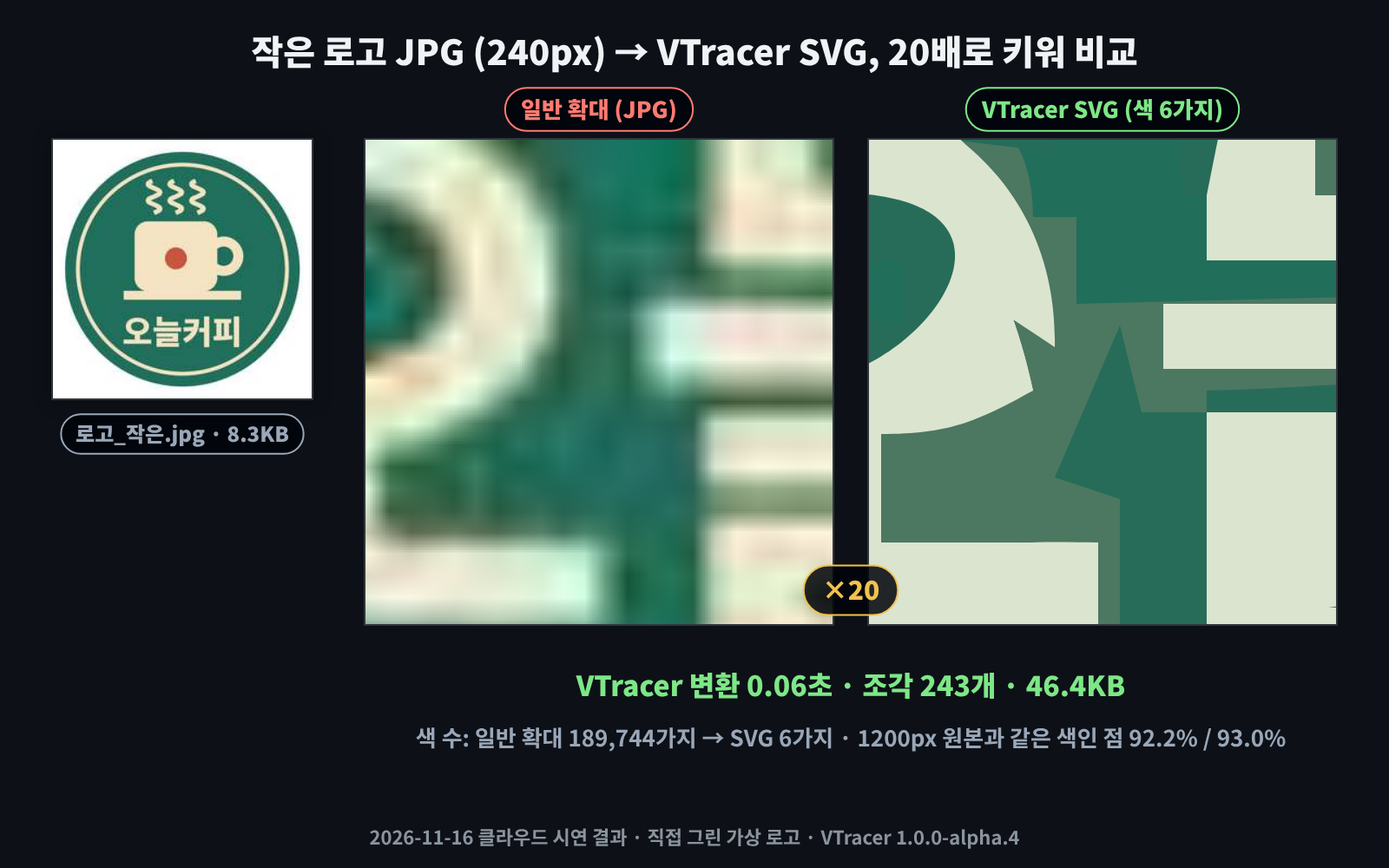
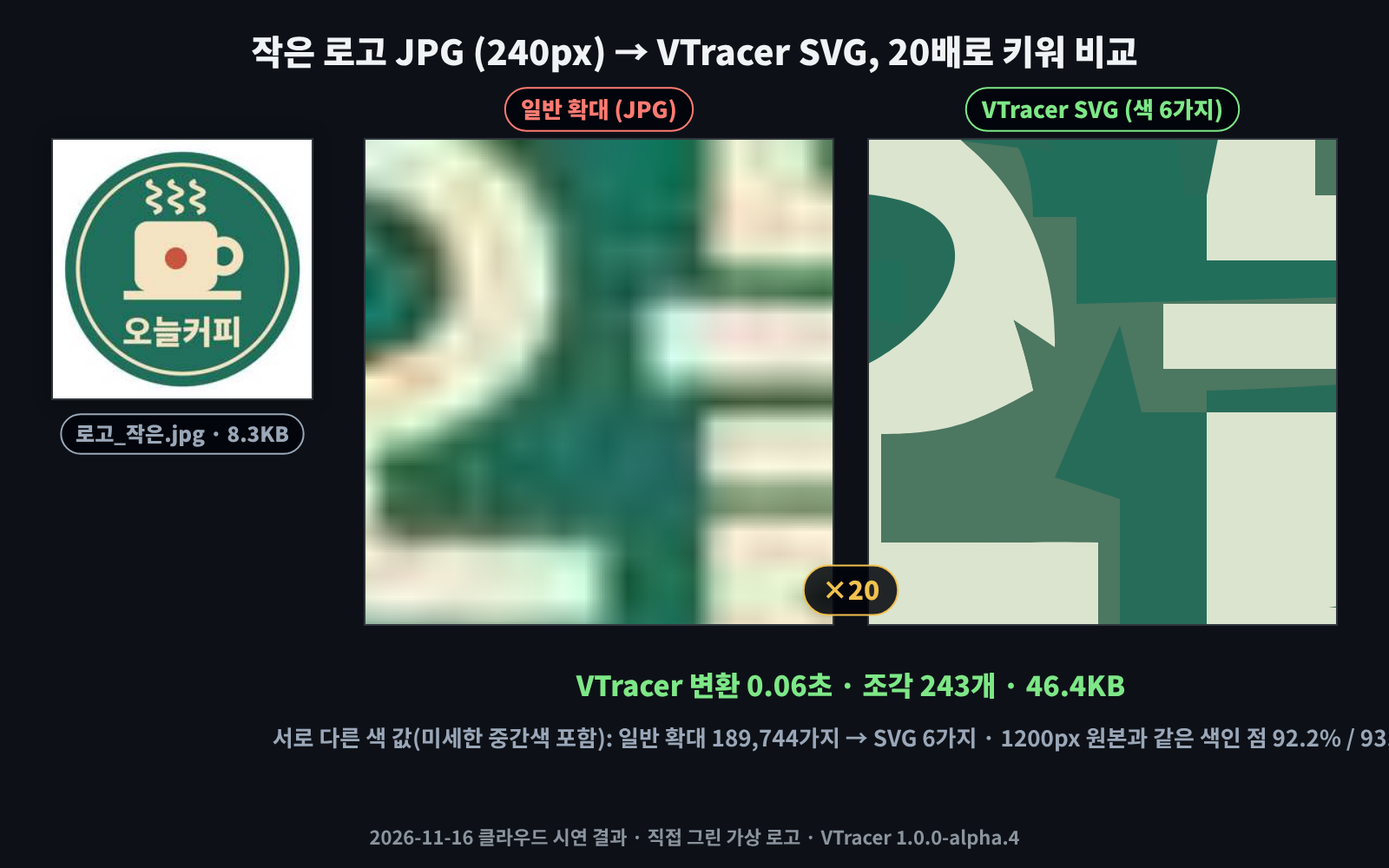
Day 21: '색 18만 가지' 설명 보강(미세한 중간색 포함, 원본 4가지 색) — 원고·대본·결과 그림
Claude-Session: https://claude.ai/code/session_019E7jeDdd7prpzDpMCAkJeB

Changed region(s): [[0.1875, 0.837, 1.0, 0.868]]

diff --git a/2026-11-16-vtracer/demo/render/timing.js b/2026-11-16-vtracer/demo/render/timing.js
@@ -1,2 +1,2 @@
-const LONG = [{"id": "preview", "tag": "", "dur": 21, "t0": 0.0, "cues": [[0.3, 4.59, "240px짜리 작은 로고 JPG를 20배로 키우면 흐릿하게 뭉개집니다", "이백사십 픽셀짜리 작은 로고를 크게 키우면 흐릿하게 뭉개집니다"], [5.69, 10.13, "VTracer로 SVG로 바꾸면 0.05초", "브이티레이서로 에스브이지로 바꾸는 데 영 쩜 영오 초가 걸렸습니다"], [11.23, 14.25, "4800px로 키워도 테두리가 또렷합니다", "사천팔백 픽셀로 키워도 테두리가 또렷합니다"]]}, {"id": "title", "tag": "", "dur": 15.14, "t0": 21.0, "cues": [[0.3, 3.3, "오늘의 오픈소스, VTracer (브이티레이서)", "오늘의 오픈소스, 브이티레이서입니다"], [4.4, 7.4, "일반인 쓸모 별점 ★★★☆☆ (3)", "일반인 쓸모 별점은 다섯 개 중 세 개입니다"], [8.5, 13.74, "그림 파일을 확대해도 깨지지 않는 SVG로 바꾸는 무료 프로그램", "그림 파일을 확대해도 깨지지 않는 에스브이지로 바꿔 주는 무료 프로그램입니다"]]}, {"id": "what", "tag": "01 VTracer란 무엇입니까?", "dur": 32.76, "t0": 36.14, "cues": [[0.3, 4.74, "JPG·PNG = 작은 색 점(픽셀)을 빽빽이 채운 모자이크", "제이피지와 피엔지 그림은 작은 색 점을 빽빽이 채운 모자이크입니다"], [5.84, 9.81, "확대하면 점이 커져 계단·흐림이 생깁니다", "그래서 확대하면 점이 커지면서 계단이 생기거나 흐려집니다"], [10.91, 15.2, "SVG = '이 곡선 안을 초록으로 칠하라'는 조립 설명서", "에스브이지는 이 곡선 안을 초록으로 칠하라는 조립 설명서입니다"], [16.3, 19.95, "크기를 바꾸면 설명서대로 다시 그리므로 늘 선명", "크기를 바꾸면 설명서대로 다시 그리므로 늘 선명합니다"], [21.05, 25.97, "VTracer = 모자이크를 보고 조립 설명서를 받아 적는 프로그램", "브이티레이서는 모자이크를 보고 조립 설명서를 받아 적는 프로그램입니다"], [27.07, 31.36, "visioncortex(홍콩) · MIT 라이선스 · ⭐ 7,536 · 최신 1.0.0-alpha.4", "홍콩의 비전코텍스가 만들었고, 깃허브 별은 칠천오백여 개입니다"]]}, {"id": "install", "tag": "02 설치 (Windows)", "dur": 32.54, "t0": 68.89, "cues": [[0.3, 7.73, "방법 ①: 공식 화면 프로그램(Windows App) — 시연에서는 실행하지 않음", "윈도우용 화면 프로그램도 공식 저장소에 있습니다\n다만 이번 시연에서는 실행하지 않았습니다"], [8.83, 11.83, "방법 ②: 파이썬 설치 후 pip install vtracer==1.0.0a4", "이번 시연은 파이썬 명령으로 설치했습니다"], [12.93, 16.74, "주의: 버전 번호를 빼면 옛 버전(0.6.15)이 설치됩니다", "버전 번호를 빼면 옛 버전이 설치되니 꼭 붙이시기 바랍니다"], [17.84, 25.12, "시연(리눅스): 설치 0.66초 · 내려받기 1.2MB · 함께 설치되는 프로그램 없음", "시연에서는 설치가 영 쩜 육육 초 만에 끝났습니다\n함께 설치되는 프로그램은 없었습니다"], [26.22, 31.14, "Windows 설치는 공식 안내 기준 · Windows 실행 확인 전", "윈도우 설치는 공식 안내를 바탕으로 한 것이고, 윈도우 실행은 확인 전입니다"]]}, {"id": "usage", "tag": "03 기본 사용법", "dur": 21.67, "t0": 101.43, "cues": [[0.3, 5.06, "python -c \"import vtracer; vtracer.convert_file('로고.jpg', '로고.svg')\"", "명령 프롬프트에서 파이썬 한 줄로 그림 파일과 결과 파일 이름을 넘깁니다"], [6.16, 10.29, "옵션: max_colors(색 수) · simplify(곡선 단순화) · clustering='bw'(흑백) · mode='pixel'(도트)", "색 개수, 곡선 단순화, 흑백, 도트 모양 같은 옵션을 고를 수 있습니다"], [11.39, 15.04, "원본 그림은 그대로 · 결과는 새 SVG 파일", "원본 그림은 그대로 두고 새 에스브이지 파일을 만듭니다"], [16.14, 20.27, "SVG만들기.bat: 그림을 끌어다 놓고 번호 1~4 고르기 (Windows 실행 확인 전)", "윈도우용 배치 파일에 그림을 끌어다 놓고 번호만 골라도 됩니다"]]}, {"id": "demo1", "tag": "04 시연 ① 작은 로고 → 큰 그림", "dur": 34.03, "t0": 123.1, "cues": [[0.3, 5.38, "시연 그림: 직접 그린 가상 카페 로고를 240px JPG로 줄인 것 (8.3KB)", "시연 그림은 직접 그린 가상 카페 로고를 이백사십 픽셀로 줄인 제이피지입니다"], [6.48, 10.61, "VTracer: 색 6가지 + 곡선 단순화 → 0.06초 · 조각 243개", "색 여섯 가지와 곡선 단순화를 넣어 영 쩜 영육 초 만에 바꿨습니다"], [11.71, 16.15, "20배(4800px)로 키워 보면: 일반 확대는 흐릿, SVG는 또렷", "이십 배로 키워 보면 일반 확대는 흐릿하고 에스브이지는 또렷합니다"], [17.25, 22.65, "1200px 원본과 같은 색인 점: 일반 확대 92.2% · SVG 93.0% (거의 같음)", "원본 로고와 같은 색인 점의 비율은 둘 다 구십이에서 구십삼 퍼센트로 비슷했습니다"], [23.75, 28.19, "색 수: 일반 확대 189,744가지 → SVG 6가지 (인쇄소에 넘기기 좋음)", "일반 확대는 색이 십팔만 가지가 넘고, 에스브이지는 여섯 가지입니다"], [29.29, 32.63, "한계: 글자 테두리에 연한 띠가 남은 곳이 있음", "다만 글자 테두리에 연한 띠가 남은 곳이 있었습니다"]]}, {"id": "demo2", "tag": "05 시연 ② 휴대폰으로 찍은 서명", "dur": 28.93, "t0": 157.12, "cues": [[0.3, 8.69, "종이에 쓴 가상 서명을 찍은 사진 · 오른쪽이 그림자로 어두움", "다음은 종이에 쓴 가상 서명을 휴대폰으로 찍은 것 같은 사진입니다\n오른쪽이 그림자로 어둡습니다"], [9.79, 12.8, "--preset bw (흑백 기본): 그림자까지 검게 칠함 · 조각 39개", "흑백 기본 설정은 그림자까지 검게 칠했습니다"], [13.9, 17.71, "--adaptive (밝기 맞춤): 그림자는 빼고 획만 · 조각 3개", "밝기 맞춤 옵션을 더하자 그림자는 빠지고 획만 남았습니다"], [18.81, 23.26, "정답 획과 겹친 정도: 60.5% → 82.6%", "정답 획과 겹친 정도는 육십 쩜 오에서 팔십이 쩜 육 퍼센트가 됐습니다"], [24.36, 27.53, "배경이 투명한 서명 SVG → 문서·이미지 위에 바로 올리기", "배경이 투명해서 문서 위에 바로 올릴 수 있습니다"]]}, {"id": "demo3", "tag": "06 시연 ③ 도트 그림", "dur": 20.24, "t0": 186.05, "cues": [[0.3, 3.63, "직접 찍은 24×24 도트 그림 (가상 화분)", "이번에는 직접 찍은 스물넷 칸짜리 도트 그림입니다"], [4.73, 9.81, "기본(곡선) 모드: 칸이 녹아 둥근 그림 · 노란 칸은 사라짐", "기본 곡선 모드는 칸을 녹여 둥근 그림을 만들었고, 노란 칸 하나는 사라졌습니다"], [10.91, 14.09, "-m pixel: 네모 칸 모양 그대로 · 2.5KB", "픽셀 모드를 쓰면 네모 칸 모양이 그대로 남습니다"], [15.19, 18.84, "480px로 키워도 칸 테두리가 번지지 않음", "사백팔십 픽셀로 키워도 칸 테두리가 번지지 않았습니다"]]}, {"id": "demo4", "tag": "07 시연 ④ 사진 → 포스터 그림", "dur": 24.81, "t0": 206.29, "cues": [[0.3, 3.3, "CC0 고양이 사진 (451×300)", "사진도 넣어 보았습니다"], [4.4, 8.21, "poster: 원래 사진과 같은 색 98.3% · 697KB", "포스터 설정은 원래 사진과 거의 같은 그림을 만들었습니다"], [9.31, 12.48, "max_colors=8: 8가지 색 판화 느낌 · photo: 조각 106개", "색을 여덟 가지로 줄이면 판화 같은 그림이 됩니다"], [13.58, 17.39, "watershed: 조각 23개 · 추상화 느낌", "워터셰드 방식은 스물세 조각짜리 추상화를 만들었습니다"], [18.49, 23.41, "4000px 큰 사진: 기본 0.92초 · poster 109초", "사천 픽셀 사진은 기본 설정이 영 쩜 구이 초, 포스터 설정은 백구 초 걸렸습니다"]]}, {"id": "demo5", "tag": "08 시연 ⑤ 파일 크기 줄이기", "dur": 23.57, "t0": 231.11, "cues": [[0.3, 3.95, "simplify: 곡선을 더 적은 선으로 다시 맞춤", "심플리파이 옵션은 곡선을 더 적은 선으로 다시 맞춥니다"], [5.05, 9.34, "로고: 기본 73.7KB → 색 6가지 + simplify 46.4KB", "로고는 칠십삼 킬로바이트에서 사십육 킬로바이트로 줄었습니다"], [10.44, 16.15, "고양이 사진: 551KB → 377KB · 같은 색 비율 84.7% → 84.6%", "고양이 사진은 오백오십일에서 삼백칠십칠 킬로바이트가 됐고, 그림은 거의 같았습니다"], [17.25, 22.17, "SVG는 엣지·크롬으로 열고, 파워포인트·워드에 그림으로 넣을 수 있음", "만든 에스브이지는 엣지로 열거나 파워포인트에 그림으로 넣을 수 있습니다"]]}, {"id": "cons", "tag": "09 아쉬운 점", "dur": 24.5, "t0": 254.68, "cues": [[0.3, 3.3, "아쉬운 점도 짚어 보겠습니다", "아쉬운 점도 짚어 보겠습니다"], [4.4, 9.0, "① 1.0은 아직 시험 버전(alpha) · 버전 번호를 꼭 붙여 설치", "첫째, 일 쩜 영 버전은 아직 시험 버전이라 버전 번호를 붙여야 설치됩니다"], [10.1, 13.75, "② 사진은 SVG가 원본 JPG보다 큼 (37.8KB → 697KB)", "둘째, 사진은 에스브이지 파일이 원본보다 훨씬 커집니다"], [14.85, 18.19, "③ 큰 사진 + poster는 오래 걸림 (4000px 109초)", "셋째, 큰 사진에 포스터 설정을 쓰면 오래 걸렸습니다"], [19.29, 23.1, "④ 화면 프로그램·Windows 실행은 시연하지 않음", "넷째, 화면 프로그램과 윈도우 실행은 시연하지 않았습니다"]]}, {"id": "summary", "tag": "정리", "dur": 24.96, "t0": 279.17, "cues": [[0.3, 3.3, "오늘 내용을 정리합니다", "오늘 내용을 정리합니다"], [4.4, 8.05, "✔ 모자이크 그림 → 조립 설명서(SVG), 키워도 선명", "모자이크 그림을 조립 설명서로 바꿔, 키워도 선명합니다"], [9.15, 13.91, "✔ 로고는 max_colors · 서명은 bw + adaptive · 도트는 pixel", "로고는 색 개수, 서명은 밝기 맞춤, 도트 그림은 픽셀 모드를 쓰시기 바랍니다"], [15.01, 18.01, "✔ 로고 0.06초 · 서명 0.05초 · 설치 0.66초", "로고와 서명은 영 쩜 영 몇 초 만에 끝났습니다"], [19.11, 23.56, "✔ 원본 보관 · 남의 로고는 권리 확인 후 사용", "원본은 따로 보관하고, 남의 로고는 권리를 확인한 뒤 쓰시기 바랍니다"]]}, {"id": "end", "tag": "", "dur": 7, "t0": 304.13, "cues": [[0.3, 3.3, "다음에 또 멋진 오픈소스 소개하겠습니다!", "다음에 또 멋진 오픈소스 소개하겠습니다!"]]}];
+const LONG = [{"id": "preview", "tag": "", "dur": 21, "t0": 0.0, "cues": [[0.3, 4.59, "240px짜리 작은 로고 JPG를 20배로 키우면 흐릿하게 뭉개집니다", "이백사십 픽셀짜리 작은 로고를 크게 키우면 흐릿하게 뭉개집니다"], [5.69, 10.13, "VTracer로 SVG로 바꾸면 0.05초", "브이티레이서로 에스브이지로 바꾸는 데 영 쩜 영오 초가 걸렸습니다"], [11.23, 14.25, "4800px로 키워도 테두리가 또렷합니다", "사천팔백 픽셀로 키워도 테두리가 또렷합니다"]]}, {"id": "title", "tag": "", "dur": 15.14, "t0": 21.0, "cues": [[0.3, 3.3, "오늘의 오픈소스, VTracer (브이티레이서)", "오늘의 오픈소스, 브이티레이서입니다"], [4.4, 7.4, "일반인 쓸모 별점 ★★★☆☆ (3)", "일반인 쓸모 별점은 다섯 개 중 세 개입니다"], [8.5, 13.74, "그림 파일을 확대해도 깨지지 않는 SVG로 바꾸는 무료 프로그램", "그림 파일을 확대해도 깨지지 않는 에스브이지로 바꿔 주는 무료 프로그램입니다"]]}, {"id": "what", "tag": "01 VTracer란 무엇입니까?", "dur": 32.76, "t0": 36.14, "cues": [[0.3, 4.74, "JPG·PNG = 작은 색 점(픽셀)을 빽빽이 채운 모자이크", "제이피지와 피엔지 그림은 작은 색 점을 빽빽이 채운 모자이크입니다"], [5.84, 9.81, "확대하면 점이 커져 계단·흐림이 생깁니다", "그래서 확대하면 점이 커지면서 계단이 생기거나 흐려집니다"], [10.91, 15.2, "SVG = '이 곡선 안을 초록으로 칠하라'는 조립 설명서", "에스브이지는 이 곡선 안을 초록으로 칠하라는 조립 설명서입니다"], [16.3, 19.95, "크기를 바꾸면 설명서대로 다시 그리므로 늘 선명", "크기를 바꾸면 설명서대로 다시 그리므로 늘 선명합니다"], [21.05, 25.97, "VTracer = 모자이크를 보고 조립 설명서를 받아 적는 프로그램", "브이티레이서는 모자이크를 보고 조립 설명서를 받아 적는 프로그램입니다"], [27.07, 31.36, "visioncortex(홍콩) · MIT 라이선스 · ⭐ 7,536 · 최신 1.0.0-alpha.4", "홍콩의 비전코텍스가 만들었고, 깃허브 별은 칠천오백여 개입니다"]]}, {"id": "install", "tag": "02 설치 (Windows)", "dur": 32.54, "t0": 68.89, "cues": [[0.3, 7.73, "방법 ①: 공식 화면 프로그램(Windows App) — 시연에서는 실행하지 않음", "윈도우용 화면 프로그램도 공식 저장소에 있습니다\n다만 이번 시연에서는 실행하지 않았습니다"], [8.83, 11.83, "방법 ②: 파이썬 설치 후 pip install vtracer==1.0.0a4", "이번 시연은 파이썬 명령으로 설치했습니다"], [12.93, 16.74, "주의: 버전 번호를 빼면 옛 버전(0.6.15)이 설치됩니다", "버전 번호를 빼면 옛 버전이 설치되니 꼭 붙이시기 바랍니다"], [17.84, 25.12, "시연(리눅스): 설치 0.66초 · 내려받기 1.2MB · 함께 설치되는 프로그램 없음", "시연에서는 설치가 영 쩜 육육 초 만에 끝났습니다\n함께 설치되는 프로그램은 없었습니다"], [26.22, 31.14, "Windows 설치는 공식 안내 기준 · Windows 실행 확인 전", "윈도우 설치는 공식 안내를 바탕으로 한 것이고, 윈도우 실행은 확인 전입니다"]]}, {"id": "usage", "tag": "03 기본 사용법", "dur": 21.67, "t0": 101.43, "cues": [[0.3, 5.06, "python -c \"import vtracer; vtracer.convert_file('로고.jpg', '로고.svg')\"", "명령 프롬프트에서 파이썬 한 줄로 그림 파일과 결과 파일 이름을 넘깁니다"], [6.16, 10.29, "옵션: max_colors(색 수) · simplify(곡선 단순화) · clustering='bw'(흑백) · mode='pixel'(도트)", "색 개수, 곡선 단순화, 흑백, 도트 모양 같은 옵션을 고를 수 있습니다"], [11.39, 15.04, "원본 그림은 그대로 · 결과는 새 SVG 파일", "원본 그림은 그대로 두고 새 에스브이지 파일을 만듭니다"], [16.14, 20.27, "SVG만들기.bat: 그림을 끌어다 놓고 번호 1~4 고르기 (Windows 실행 확인 전)", "윈도우용 배치 파일에 그림을 끌어다 놓고 번호만 골라도 됩니다"]]}, {"id": "demo1", "tag": "04 시연 ① 작은 로고 → 큰 그림", "dur": 37.04, "t0": 123.1, "cues": [[0.3, 5.38, "시연 그림: 직접 그린 가상 카페 로고를 240px JPG로 줄인 것 (8.3KB)", "시연 그림은 직접 그린 가상 카페 로고를 이백사십 픽셀로 줄인 제이피지입니다"], [6.48, 10.61, "VTracer: 색 6가지 + 곡선 단순화 → 0.06초 · 조각 243개", "색 여섯 가지와 곡선 단순화를 넣어 영 쩜 영육 초 만에 바꿨습니다"], [11.71, 16.15, "20배(4800px)로 키워 보면: 일반 확대는 흐릿, SVG는 또렷", "이십 배로 키워 보면 일반 확대는 흐릿하고 에스브이지는 또렷합니다"], [17.25, 22.65, "1200px 원본과 같은 색인 점: 일반 확대 92.2% · SVG 93.0% (거의 같음)", "원본 로고와 같은 색인 점의 비율은 둘 다 구십이에서 구십삼 퍼센트로 비슷했습니다"], [23.75, 31.21, "일반 확대: 테두리에 미세한 중간색 189,744가지 · SVG: 6가지 색으로 정리", "일반 확대는 테두리에 미세하게 다른 중간색이 십팔만 가지 넘게 생기고, 에스브이지는 여섯 가지 색으로 정리됩니다"], [32.31, 35.64, "한계: 글자 테두리에 연한 띠가 남은 곳이 있음", "다만 글자 테두리에 연한 띠가 남은 곳이 있었습니다"]]}, {"id": "demo2", "tag": "05 시연 ② 휴대폰으로 찍은 서명", "dur": 28.93, "t0": 160.14, "cues": [[0.3, 8.69, "종이에 쓴 가상 서명을 찍은 사진 · 오른쪽이 그림자로 어두움", "다음은 종이에 쓴 가상 서명을 휴대폰으로 찍은 것 같은 사진입니다\n오른쪽이 그림자로 어둡습니다"], [9.79, 12.8, "--preset bw (흑백 기본): 그림자까지 검게 칠함 · 조각 39개", "흑백 기본 설정은 그림자까지 검게 칠했습니다"], [13.9, 17.71, "--adaptive (밝기 맞춤): 그림자는 빼고 획만 · 조각 3개", "밝기 맞춤 옵션을 더하자 그림자는 빠지고 획만 남았습니다"], [18.81, 23.26, "정답 획과 겹친 정도: 60.5% → 82.6%", "정답 획과 겹친 정도는 육십 쩜 오에서 팔십이 쩜 육 퍼센트가 됐습니다"], [24.36, 27.53, "배경이 투명한 서명 SVG → 문서·이미지 위에 바로 올리기", "배경이 투명해서 문서 위에 바로 올릴 수 있습니다"]]}, {"id": "demo3", "tag": "06 시연 ③ 도트 그림", "dur": 20.24, "t0": 189.07, "cues": [[0.3, 3.63, "직접 찍은 24×24 도트 그림 (가상 화분)", "이번에는 직접 찍은 스물넷 칸짜리 도트 그림입니다"], [4.73, 9.81, "기본(곡선) 모드: 칸이 녹아 둥근 그림 · 노란 칸은 사라짐", "기본 곡선 모드는 칸을 녹여 둥근 그림을 만들었고, 노란 칸 하나는 사라졌습니다"], [10.91, 14.09, "-m pixel: 네모 칸 모양 그대로 · 2.5KB", "픽셀 모드를 쓰면 네모 칸 모양이 그대로 남습니다"], [15.19, 18.84, "480px로 키워도 칸 테두리가 번지지 않음", "사백팔십 픽셀로 키워도 칸 테두리가 번지지 않았습니다"]]}, {"id": "demo4", "tag": "07 시연 ④ 사진 → 포스터 그림", "dur": 24.81, "t0": 209.31, "cues": [[0.3, 3.3, "CC0 고양이 사진 (451×300)", "사진도 넣어 보았습니다"], [4.4, 8.21, "poster: 원래 사진과 같은 색 98.3% · 697KB", "포스터 설정은 원래 사진과 거의 같은 그림을 만들었습니다"], [9.31, 12.48, "max_colors=8: 8가지 색 판화 느낌 · photo: 조각 106개", "색을 여덟 가지로 줄이면 판화 같은 그림이 됩니다"], [13.58, 17.39, "watershed: 조각 23개 · 추상화 느낌", "워터셰드 방식은 스물세 조각짜리 추상화를 만들었습니다"], [18.49, 23.41, "4000px 큰 사진: 기본 0.92초 · poster 109초", "사천 픽셀 사진은 기본 설정이 영 쩜 구이 초, 포스터 설정은 백구 초 걸렸습니다"]]}, {"id": "demo5", "tag": "08 시연 ⑤ 파일 크기 줄이기", "dur": 23.57, "t0": 234.12, "cues": [[0.3, 3.95, "simplify: 곡선을 더 적은 선으로 다시 맞춤", "심플리파이 옵션은 곡선을 더 적은 선으로 다시 맞춥니다"], [5.05, 9.34, "로고: 기본 73.7KB → 색 6가지 + simplify 46.4KB", "로고는 칠십삼 킬로바이트에서 사십육 킬로바이트로 줄었습니다"], [10.44, 16.15, "고양이 사진: 551KB → 377KB · 같은 색 비율 84.7% → 84.6%", "고양이 사진은 오백오십일에서 삼백칠십칠 킬로바이트가 됐고, 그림은 거의 같았습니다"], [17.25, 22.17, "SVG는 엣지·크롬으로 열고, 파워포인트·워드에 그림으로 넣을 수 있음", "만든 에스브이지는 엣지로 열거나 파워포인트에 그림으로 넣을 수 있습니다"]]}, {"id": "cons", "tag": "09 아쉬운 점", "dur": 24.5, "t0": 257.69, "cues": [[0.3, 3.3, "아쉬운 점도 짚어 보겠습니다", "아쉬운 점도 짚어 보겠습니다"], [4.4, 9.0, "① 1.0은 아직 시험 버전(alpha) · 버전 번호를 꼭 붙여 설치", "첫째, 일 쩜 영 버전은 아직 시험 버전이라 버전 번호를 붙여야 설치됩니다"], [10.1, 13.75, "② 사진은 SVG가 원본 JPG보다 큼 (37.8KB → 697KB)", "둘째, 사진은 에스브이지 파일이 원본보다 훨씬 커집니다"], [14.85, 18.19, "③ 큰 사진 + poster는 오래 걸림 (4000px 109초)", "셋째, 큰 사진에 포스터 설정을 쓰면 오래 걸렸습니다"], [19.29, 23.1, "④ 화면 프로그램·Windows 실행은 시연하지 않음", "넷째, 화면 프로그램과 윈도우 실행은 시연하지 않았습니다"]]}, {"id": "summary", "tag": "정리", "dur": 24.96, "t0": 282.19, "cues": [[0.3, 3.3, "오늘 내용을 정리합니다", "오늘 내용을 정리합니다"], [4.4, 8.05, "✔ 모자이크 그림 → 조립 설명서(SVG), 키워도 선명", "모자이크 그림을 조립 설명서로 바꿔, 키워도 선명합니다"], [9.15, 13.91, "✔ 로고는 max_colors · 서명은 bw + adaptive · 도트는 pixel", "로고는 색 개수, 서명은 밝기 맞춤, 도트 그림은 픽셀 모드를 쓰시기 바랍니다"], [15.01, 18.01, "✔ 로고 0.06초 · 서명 0.05초 · 설치 0.66초", "로고와 서명은 영 쩜 영 몇 초 만에 끝났습니다"], [19.11, 23.56, "✔ 원본 보관 · 남의 로고는 권리 확인 후 사용", "원본은 따로 보관하고, 남의 로고는 권리를 확인한 뒤 쓰시기 바랍니다"]]}, {"id": "end", "tag": "", "dur": 7, "t0": 307.15, "cues": [[0.3, 3.3, "다음에 또 멋진 오픈소스 소개하겠습니다!", "다음에 또 멋진 오픈소스 소개하겠습니다!"]]}];
 const SHORTS = [{"id": "s_hook", "tag": "", "dur": 7, "t0": 0.0, "cues": [[0.3, 3.63, "작은 로고, 키우면 흐릿해집니다", "작은 로고 그림을 크게 키우면 흐릿하게 뭉개집니다"]]}, {"id": "s_logo", "tag": "", "dur": 10.42, "t0": 7.0, "cues": [[0.3, 4.43, "VTracer: 그림을 SVG(조립 설명서)로", "무료 프로그램 브이티레이서는 그림을 에스브이지로 바꿉니다"], [5.53, 9.02, "0.06초 · 20배로 키워도 또렷", "영 쩜 영육 초 만에 바꿨고, 이십 배로 키워도 또렷합니다"]]}, {"id": "s_sign", "tag": "", "dur": 10.58, "t0": 17.42, "cues": [[0.3, 4.11, "그림자 진 서명 사진 → 획만 남은 투명 서명", "그림자 진 서명 사진도 밝기 맞춤 옵션으로 획만 남겼습니다"], [5.21, 9.18, "정답 획과 겹친 정도 60.5% → 82.6%", "정답 획과 겹친 정도는 육십에서 팔십이 퍼센트로 올랐습니다"]]}, {"id": "s_dot", "tag": "", "dur": 7, "t0": 28.0, "cues": [[0.3, 3.63, "도트 그림은 -m pixel로 칸 모양 그대로", "도트 그림은 픽셀 모드로 칸 모양을 그대로 살립니다"]]}, {"id": "s_end", "tag": "", "dur": 8.8, "t0": 35.0, "cues": [[0.3, 7.4, "약점: 사진은 파일이 커짐 · 별점 ★★★☆☆", "다만 사진은 파일이 원본보다 커졌습니다\n일반인 쓸모 별점은 다섯 개 중 세 개입니다"]]}];

diff --git a/2026-11-16-vtracer/demo/render/still.html b/2026-11-16-vtracer/demo/render/still.html
@@ -14,7 +14,7 @@ Promise.all([document.fonts.load(`900 40px ${F}`), document.fonts.load(`600 20px
     pic('logo', 60, 160, 300, 300); pill('로고_작은.jpg · ' + kb(RES.logo.in_kb), 210, 500, 24, SUB);
     zoomPair('logo', 'logo_svg', { x: 420, y: 160, w: 1120, h: 560 }, .38, .74, 20, 300, 1, '일반 확대 (JPG)', 'VTracer SVG (색 6가지)');
     text('VTracer 변환 ' + f2(RES.logo.max6_simplify.sec) + '초 · 조각 ' + RES.logo.max6_simplify.paths + '개 · ' + kb(RES.logo.max6_simplify.kb), 980, 790, 32, GREEN, 900);
-    text('색 수: 일반 확대 ' + RES.logo.bicubic_colors.toLocaleString('ko-KR') + '가지 → SVG 6가지 · 1200px 원본과 같은 색인 점 ' + f1(RES.logo.bicubic_same) + '% / ' + f1(RES.logo.max6_simplify.same) + '%', 980, 850, 26, SUB, 700);
+    text('서로 다른 색 값(미세한 중간색 포함): 일반 확대 ' + RES.logo.bicubic_colors.toLocaleString('ko-KR') + '가지 → SVG 6가지 · 1200px 원본과 같은 색인 점 ' + f1(RES.logo.bicubic_same) + '% / ' + f1(RES.logo.max6_simplify.same) + '%', 980, 850, 26, SUB, 700);
     foot('2026-11-16 클라우드 시연 결과 · 직접 그린 가상 로고 · VTracer 1.0.0-alpha.4');
   }
   if (K === 'sign') {

diff --git a/2026-11-16-vtracer/demo/render/scenes.js b/2026-11-16-vtracer/demo/render/scenes.js
@@ -136,7 +136,7 @@ const DRAW_LONG = {
     const k3 = ap(lt, cs(c, 3)); text('1200px 원본과 같은 색인 점', 560, 730, 28, SUB, 700, 'center', k3);
     bar(200, 760, 560, 34, L.bicubic_same, 100, RED, ease(prog(lt, cs(c, 3), cs(c, 3) + 1.5)), '일반 ' + f1(L.bicubic_same) + '%', k3, 26);
     bar(200, 810, 560, 34, L.max6_simplify.same, 100, GREEN, ease(prog(lt, cs(c, 3) + .5, cs(c, 3) + 2)), 'SVG ' + f1(L.max6_simplify.same) + '%', k3, 26);
-    const k4 = ap(lt, cs(c, 4)); text('색 수', 1360, 730, 28, SUB, 700, 'center', k4);
+    const k4 = ap(lt, cs(c, 4)); text('서로 다른 색 값 (미세한 중간색 포함)', 1360, 730, 28, SUB, 700, 'center', k4);
     text(L.bicubic_colors.toLocaleString('ko-KR') + '가지 → 6가지', 1360, 800, 52, GOLD, 900, 'center', k4);
     const k5 = ap(lt, cs(c, 5)); pill('한계: 글자 테두리에 연한 띠가 남은 곳', 1360, 880, 26, RED, k5);
     stamp('20배에도 또렷', 1640, 210, ap(lt, tz + 3.6, .5), GREEN, 40);

diff --git a/2026-11-16-vtracer/demo/script.py b/2026-11-16-vtracer/demo/script.py
@@ -37,7 +37,7 @@ LONG = [
   ("VTracer: 색 6가지 + 곡선 단순화 → 0.06초 · 조각 243개", "색 여섯 가지와 곡선 단순화를 넣어 영 쩜 영육 초 만에 바꿨습니다"),
   ("20배(4800px)로 키워 보면: 일반 확대는 흐릿, SVG는 또렷", "이십 배로 키워 보면 일반 확대는 흐릿하고 에스브이지는 또렷합니다"),
   ("1200px 원본과 같은 색인 점: 일반 확대 92.2% · SVG 93.0% (거의 같음)", "원본 로고와 같은 색인 점의 비율은 둘 다 구십이에서 구십삼 퍼센트로 비슷했습니다"),
-  ("색 수: 일반 확대 189,744가지 → SVG 6가지 (인쇄소에 넘기기 좋음)", "일반 확대는 색이 십팔만 가지가 넘고, 에스브이지는 여섯 가지입니다"),
+  ("일반 확대: 테두리에 미세한 중간색 189,744가지 · SVG: 6가지 색으로 정리", "일반 확대는 테두리에 미세하게 다른 중간색이 십팔만 가지 넘게 생기고, 에스브이지는 여섯 가지 색으로 정리됩니다"),
   ("한계: 글자 테두리에 연한 띠가 남은 곳이 있음", "다만 글자 테두리에 연한 띠가 남은 곳이 있었습니다"),
  ]),
  ("demo2", "05 시연 ② 휴대폰으로 찍은 서명", 0, [

diff --git a/2026-11-16-vtracer/youtube-long.md b/2026-11-16-vtracer/youtube-long.md
@@ -33,7 +33,7 @@
    pip install vtracer==1.0.0a4   (버전 번호를 빼면 옛 버전 0.6.15가 설치됨)
    python -c "import vtracer; vtracer.Config(max_colors=6, simplify=1.5).convert_file('로고.jpg', '로고.svg')"
    (서명: clustering='bw', adaptive=True · 도트 그림: mode='pixel', filter_speckle=0)
-※ 읽는 법: '같은 색 비율'은 원본 그림과 색이 거의 같은 점의 비율, '겹친 정도'는 서명에서 검게 그린 자리와 정답 획이 겹치는 비율입니다(100%면 똑같음). 로고는 같은 색 비율이 92.2%·93.0%로 비슷하고, 차이는 테두리가 흐릿한지 또렷한지에서 납니다.
+※ 읽는 법: '같은 색 비율'은 원본 그림과 색이 거의 같은 점의 비율, '겹친 정도'는 서명에서 검게 그린 자리와 정답 획이 겹치는 비율입니다(100%면 똑같음). 로고는 같은 색 비율이 92.2%·93.0%로 비슷하고, 차이는 테두리가 흐릿한지 또렷한지에서 납니다. 일반 확대의 '색 189,744가지'는 눈에는 비슷해 보이는 미세하게 다른 중간색까지 센 값입니다(원본 로고는 4가지 색).
 ※ 영상 속 로고·서명·도트 그림은 직접 만든 가상 자료, 고양이 사진은 CC0 사진이고, SVG·숫자는 프로그램이 만든 실제 결과입니다.
 ※ 유의사항
 ※ 이 영상은 오픈소스 프로젝트를 소개하는 정보 제공용이며, 특정 프로그램 사용을 권하거나 결과를 보장하지 않습니다.
@@ -70,7 +70,7 @@ VTracer, vtracer, SVG변환, 벡터변환, 그림SVG, 로고확대, 서명만들
 | 0:36 | 01 무엇인가 | 도트 그림 확대(모자이크) ↔ SVG 코드(조립 설명서) + pixel SVG 확대 | 비유: '조립 설명서'를 받아 적는 프로그램 |
 | 1:08 | 02 설치 | Windows App 카드 · 파이썬 설치 명령 · 버전 번호 경고 · 0.66초 · 1.2MB · 함께 설치되는 프로그램 없음 | Windows는 공식 안내 기준 |
 | 1:41 | 03 사용법 | 파이썬 한 줄 · 옵션 4개 카드 · 원본/새 파일 · .bat | 원본은 그대로 |
-| 2:03 | 04 시연 ① | 로고 와이프 → 0.06초·조각 243개 카드 → ×20 확대 비교 → 같은 색 비율 막대 · 색 수 189,744 → 6 | 한계: 글자 테두리 연한 띠 |
+| 2:03 | 04 시연 ① | 로고 와이프 → 0.06초·조각 243개 카드 → ×20 확대 비교 → 같은 색 비율 막대 · 서로 다른 색 값(미세한 중간색 포함) 189,744 → 6 | 한계: 글자 테두리 연한 띠 |
 | 2:37 | 05 시연 ② | 서명 사진 · 흑백 기본(그림자 검게) · 밝기 맞춤(획만) · 겹친 정도 막대 · 도장 | 60.5% → 82.6% · 배경 투명 |
 | 3:06 | 06 시연 ③ | 도트 그림 → 곡선 모드(칸 녹음) → 픽셀 조각 전환으로 pixel 모드 | 칸 모양 그대로 · 2.5KB |
 | 3:26 | 07 시연 ④ | 고양이 사진 + poster·max8·photo·watershed 5장 → 4000px 시간 | 기본 0.92초 · poster 109초 |

diff --git a/2026-11-16-vtracer/README.md b/2026-11-16-vtracer/README.md
@@ -36,7 +36,7 @@ VTracer(브이티레이서)는 **모자이크 그림을 보고 '조립 설명서
 |---|---|
 | 설치 | `pip install vtracer==1.0.0a4` **0.66초**, 내려받기 1.2MB(Windows용 파일 932KB), **함께 설치되는 프로그램 없음**. 버전 번호를 빼면 옛 버전 0.6.15가 설치됨 |
 | ① 작은 로고 (240px JPG, 8.3KB) | 색 6가지 + `simplify=1.5`: **0.06초**, 조각 243개, 46.4KB · 기본 설정: 0.04초, 조각 328개, 73.7KB |
-| 로고를 1200px·4800px로 키우기 | 일반 확대(JPG)는 테두리가 흐릿, SVG는 20배(4800px)에서도 테두리 또렷 · 1200px 원본과 같은 색 비율: 일반 확대 92.2% / SVG 93.0% (거의 같음) · 색 수: 일반 확대 189,744가지 → SVG 6가지 |
+| 로고를 1200px·4800px로 키우기 | 일반 확대(JPG)는 테두리가 흐릿, SVG는 20배(4800px)에서도 테두리 또렷 · 1200px 원본과 같은 색 비율: 일반 확대 92.2% / SVG 93.0% (거의 같음) · 서로 다른 색 값: 일반 확대 189,744가지 → SVG 6가지 (원본 로고는 4가지 색, 일반 확대는 JPG 압축과 테두리 중간색 때문에 눈에는 비슷해 보이는 미세하게 다른 색이 많이 생김) |
 | 로고 한계 | 글자 테두리에 연한 색 띠가 남은 곳이 있음 (기본 설정에서 더 많음) |
 | ② 그림자 진 서명 사진 (1600×800) | `--preset bw`(흑백 기본): 오른쪽 그림자까지 검게 칠함, 조각 39개, 겹친 정도 **60.5%** · `--clustering bw --adaptive`(밝기 맞춤): 그림자는 빼고 획만, 조각 **3개**, 13.9KB, 겹친 정도 **82.6%**, 0.05초 · 결과 SVG는 배경이 투명 |
 | 서명을 색 그림 설정(기본)으로 | 4.06초, 1,000KB, 조각 1,829개 (종이 얼룩까지 그림) → 서명에는 흑백 설정 필요 |
